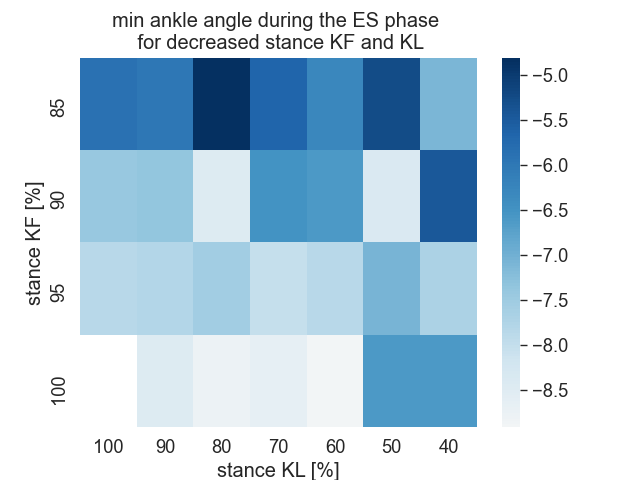
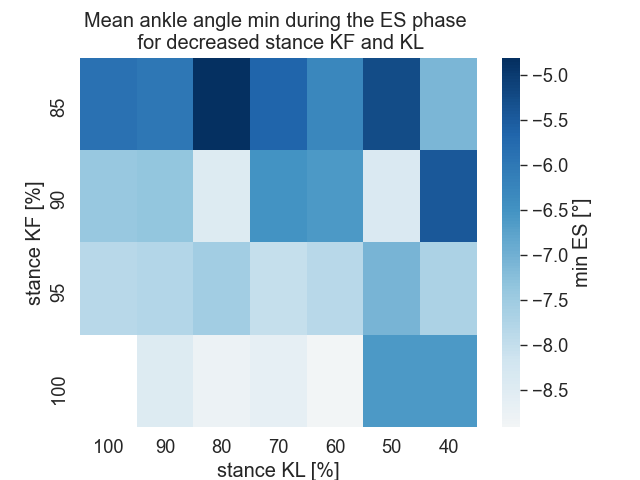
update figures

Changed region(s): [[0.125, 0.0, 0.75, 0.0625], [0.875, 0.4062, 0.9375, 0.5938]]

diff --git a/altered_models/src/extract_sto.py b/altered_models/src/extract_sto.py
@@ -156,14 +156,11 @@ def mean_gait_phases(var_names, var_tab, var_name, side):
         # average of the variable of interest during stance and swing phases over gait cycles
         av_stance_var = av_cycle_var0[0:av_stance_end]
         av_swing_var = av_cycle_var0[av_stance_end:av_gait_cycle]
+
+        return av_stance_var, av_swing_var, av_gait_cycle, av_stance_end
     
     else:
-        av_stance_var = None
-        av_swing_var = None
-        av_gait_cycle = None
-        av_stance_end = None
-
-    return av_stance_var, av_swing_var, av_gait_cycle, av_stance_end
+        return None, None, None, None
 
 
 def me_mean_gait_phases(var_names, var_tab, var_name, side):
@@ -219,15 +216,11 @@ def me_mean_gait_phases(var_names, var_tab, var_name, side):
         # average of the variable of interest during stance and swing phases over gait cycles
         av_stance_var = av_cycle_var0[0:av_stance_end-av_stance_start]
         av_swing_var = av_cycle_var0[av_stance_end-av_stance_start:av_gait_cycle-av_stance_start]
+
+        return av_stance_var, av_swing_var, av_gait_cycle, av_stance_end, av_stance_start
     
     else:
-        av_stance_var = None
-        av_swing_var = None
-        av_gait_cycle = None
-        av_stance_end = None
-        av_stance_start = None
-
-    return av_stance_var, av_swing_var, av_gait_cycle, av_stance_end, av_stance_start
+        return None, None, None, None, None
 
 
 def get_mean_gc(sto_file, var_list, side, sto_file2=None):
@@ -261,8 +254,6 @@ def get_mean_gc(sto_file, var_list, side, sto_file2=None):
         if sto_file2 is not None:
             av_stance_var2, av_swing_var2, av_gait_cycle2, av_stance_end2 = mean_gait_phases(var_names2, var_tab2,
                                                                                                  var_list[var], side)
-            av_var2 = np.concatenate((av_stance_var2, av_swing_var2, av_stance_var2))
-            
         c += 1
 
     if av_stance_var is not None:
@@ -335,6 +326,7 @@ def me(sto_file, sto_file_healthy, var_name, side):
             cycle_var = var[stance_starts[t]:stance_starts[t + 1]]
             av_cycle_var[t, :] = np.interp(np.arange(len(h_gait_cycle)), np.arange(len(cycle_var)), cycle_var)
             me.append(np.mean((av_cycle_var[t, :]-h_gait_cycle)))
+
         return np.mean(me)*180/np.pi, np.std(me)*180/np.pi
     
     else:
@@ -383,29 +375,29 @@ def me_phases(sto_file, sto_file_healthy, var_name, side):
         av_stance_var = np.zeros((len(stance_starts) - 1, st_h_stance_end - st_h_stance_start))
         av_swing_var = np.zeros((len(stance_starts) - 1, st_h_stance_start))
 
-    # interpolation of each gait cycle on the h gait cycle duration
-    for t in range(len(stance_starts) - 1):
-        if stance_starts[t] < stance_ends[t]:
-            cycle_var = var[stance_starts[t]:stance_ends[t]]
-            av_stance_var[t, :] = np.interp(np.arange(st_h_stance_end - st_h_stance_start), np.arange(len(cycle_var)),
-                                  cycle_var)
-            st_me.append(np.mean((av_stance_var[t, :] - st_h_stance_var)))
-            cycle_var = var[lstance_starts[t]:stance_starts[t]]
-            av_swing_var[t, :] = np.interp(np.arange(st_h_stance_start), np.arange(len(cycle_var)), cycle_var)
-            sw_me.append(np.mean((av_swing_var[t, :] - h_stance_var[:st_h_stance_start])))
-
-        else:
-            if t < len(stance_ends) - 1:
-                cycle_var = var[stance_starts[t]:stance_ends[t + 1]]
+        # interpolation of each gait cycle on the h gait cycle duration
+        for t in range(len(stance_starts) - 1):
+            if stance_starts[t] < stance_ends[t]:
+                cycle_var = var[stance_starts[t]:stance_ends[t]]
                 av_stance_var[t, :] = np.interp(np.arange(st_h_stance_end - st_h_stance_start), np.arange(len(cycle_var)),
                                       cycle_var)
                 st_me.append(np.mean((av_stance_var[t, :] - st_h_stance_var)))
-                cycle_var2 = var[lstance_starts[t]:stance_starts[t]]
-                av_swing_var[t, :] = np.interp(np.arange(st_h_stance_start), np.arange(len(cycle_var2)), cycle_var2)
+                cycle_var = var[lstance_starts[t]:stance_starts[t]]
+                av_swing_var[t, :] = np.interp(np.arange(st_h_stance_start), np.arange(len(cycle_var)), cycle_var)
                 sw_me.append(np.mean((av_swing_var[t, :] - h_stance_var[:st_h_stance_start])))
-        
-            return np.mean(st_me)*180/np.pi, np.std(st_me)*180/np.pi, np.mean(sw_me)*180/np.pi, np.std(sw_me)*180/np.pi
-    
+
+            else:
+                if t < len(stance_ends) - 1:
+                    cycle_var = var[stance_starts[t]:stance_ends[t + 1]]
+                    av_stance_var[t, :] = np.interp(np.arange(st_h_stance_end - st_h_stance_start), np.arange(len(cycle_var)),
+                                          cycle_var)
+                    st_me.append(np.mean((av_stance_var[t, :] - st_h_stance_var)))
+                    cycle_var2 = var[lstance_starts[t]:stance_starts[t]]
+                    av_swing_var[t, :] = np.interp(np.arange(st_h_stance_start), np.arange(len(cycle_var2)), cycle_var2)
+                    sw_me.append(np.mean((av_swing_var[t, :] - h_stance_var[:st_h_stance_start])))
+
+        return np.mean(st_me)*180/np.pi, np.std(st_me)*180/np.pi, np.mean(sw_me)*180/np.pi, np.std(sw_me)*180/np.pi
+
     else:
         return None, None, None, None
 

diff --git a/altered_models/src/assess_results_folder.py b/altered_models/src/assess_results_folder.py
@@ -312,7 +312,7 @@ def assess_parameter_folder_1d(parameter_folder, side):
             for n in range(len(experiment_title.split(" "))-1):
                 title = title + " " + experiment_title.split(" ")[s+n]
             psm.plot_columns_std(experiments_dict[metric], experiments_dict["spasticity_std_sol"],
-                                 experiment_values_float_success, 'spasticity_indexes', title, report_folder,
+                                 experiment_values_float_success, 'spasticity_indexes_l', title, report_folder,
                                  healthy_value, experiments_dict_healthy[metric],
                                  experiments_dict_healthy["spasticity_std_sol"],
                                  column_values2=experiments_dict['spasticity_index_gas'],
@@ -395,7 +395,7 @@ def assess_parameter_folder_2d(parameter_folder, side):
         # gait features
         try:
             mstep_length, sstep_length, gspeed = extract_sto.gait_features(experiment_sto)
-            mstance_period, sstance_period = extract_sto.stance_period(experiment_sto, 'l')
+            mstance_period, sstance_period = extract_sto.stance_period(experiment_sto, side)
         except:
             mstep_length, sstep_length, gspeed = np.nan, np.nan, np.nan
             mstance_period, sstance_period = np.nan, np.nan
@@ -448,7 +448,7 @@ def assess_parameter_folder_2d(parameter_folder, side):
 
     min_es_h, min_std_es = extract_sto.min_ankle_es(healthy_sto, var_name, side)
     step_length_h, sstep_length, speed_h = extract_sto.gait_features(healthy_sto)
-    stance_period_h, sstance_period = extract_sto.stance_period(healthy_sto, 'l')
+    stance_period_h, sstance_period = extract_sto.stance_period(healthy_sto, side)
 
     spas_idx_sol_h, spas_std_sol_h = spasticity_index.all_cycles_spasticity_index(healthy_sto, "soleus",
                                                                                   side, plot=False)
@@ -482,14 +482,20 @@ def assess_parameter_folder_2d(parameter_folder, side):
             df2 = df2[::-1]
         
         map = "RdBu"
+        if metric == 'ME_st':
+            lab = 'ME ST [°]'
+        elif metric == 'min_es':
+            lab = 'min ES [°]'
+        elif metric == 'step_length':
+            lab = 'step length [m]'
+        else:
+            lab = metric
+        ax = sns.heatmap(df2, cmap=map, center=experiments_dict_healthy[metric], cbar_kws={'label': lab})
         if folder_name == "stance_KF_stance_KL":
-            ax = sns.heatmap(df2, cmap=map, center=experiments_dict_healthy[metric])
             ax.set(xlabel='stance KL [%]', ylabel='stance KF [%]')
         elif folder_name == "stance_TA_KS_swing_TA_KS":
-            ax = sns.heatmap(df2, cmap=map, center=experiments_dict_healthy[metric])
             ax.set(xlabel='swing TA KS [%]', ylabel='stance TA KS [%]')
         else:
-            ax = sns.heatmap(df2, cmap=map, center=experiments_dict_healthy[metric])
             ax.set(xlabel=folder_name_split[2]+" "+folder_name_split[3]+' [%]',
                    ylabel=folder_name_split[0]+" "+folder_name_split[1]+' [%]')
 
@@ -502,13 +508,15 @@ def assess_parameter_folder_2d(parameter_folder, side):
         elif folder_name == 'stance_KF_stance_KL':
             par = 'decreased stance KF and KL'
         if metric == 'spasticity_index_sol':
-            title = 'mean SOL spasticity index ('+side+') \n for '+par
+            title = 'Mean SOL spasticity index ('+side+') \n for '+par
         elif metric == 'spasticity_index_gas':
-            title = 'mean GAS spasticity index ('+side+') \n for '+par
+            title = 'Mean GAS spasticity index ('+side+') \n for '+par
         elif metric == 'ME_st':
-            title = 'mean ME over the ST phase \n for '+par
+            title = 'Mean ankle ME over the ST phase \n for '+par
         elif metric == 'min_es':
-            title = 'min ankle angle during the ES phase \n for '+par
+            title = 'Mean ankle angle min during the ES phase \n for '+par
+        elif metric == 'step_length':
+            title = 'Mean step length \n for '+par
         else:
             title = ''
             for m in metric.split():

diff --git a/altered_models/src/par_sto_metrics.py b/altered_models/src/par_sto_metrics.py
@@ -289,18 +289,18 @@ def plot_columns_std(column_values1, std_values1, parameter_values, column_name,
     if column_name.split("_")[0] == "ME":
         title = 'Ankle comparison'
         if column_values2 is not None:
-            y_label1 = "min angle ES " + "(" + column_name.split("_")[1] + ") [°]"
-            y_label2 = "ME ST " + "(" + column_name.split("_")[1] + ") [°]"
+            y_label1 = "min angle ES " + "(" + column_name.split("_")[-1] + ") [°]"
+            y_label2 = "mean error (ME) ST " + "(" + column_name.split("_")[-1] + ") [°]"
         else:
-            y_label1 = "ME ST " + "(" + column_name.split("_")[1] + ") [°]"
+            y_label1 = "mean error (ME) ST " + "(" + column_name.split("_")[-1] + ") [°]"
     elif column_name.split("_")[0] == "mstance":
         title = 'Gait features'
         y_label1 = "stance period (T) [s]"
         y_label2 = "step length (L) [m]"
     elif column_name.split("_")[0] == "spasticity":
         title = 'Spasticity indexes'
-        y_label1 = "SOL spasticity index (" + column_name.split("_")[1] + ")"
-        y_label2 = "GAS spasticity index (" + column_name.split("_")[1] + ")"
+        y_label1 = "SOL spasticity index (" + column_name.split("_")[-1] + ")"
+        y_label2 = "GAS spasticity index (" + column_name.split("_")[-1] + ")"
     ax.set_ylabel(y_label1, color=color1)
     if column_values2 is not None:
         ax2.set_ylabel(y_label2, color=color2)
